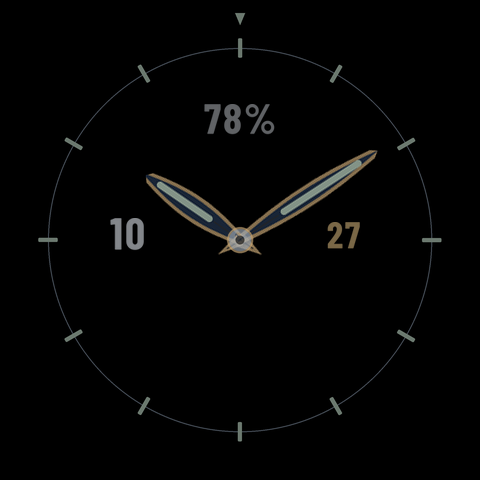
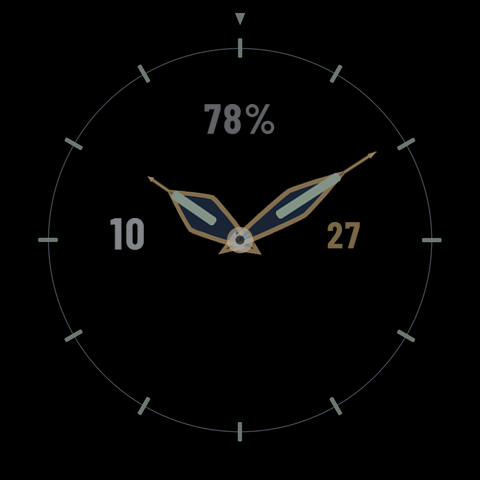
meridian-pro v7 preview: light centre disc, bolder propellers, champagne numerals redrawn post-Kontext; no-case prompt constraint

Changed region(s): [[0.3125, 0.3125, 0.7812, 0.5312]]

diff --git a/tools/meridian_pro/plate.py b/tools/meridian_pro/plate.py
@@ -146,7 +146,7 @@ def bezel(img):
         r0 = (BEZEL["tick_major_inner_r"] if major
               else BEZEL["tick_inner_r"]) * SS
         d.line([_at(cx, cy, r0, deg), _at(cx, cy, r1, deg)],
-               fill=(*P["gold"], 235) if major else (*P["ink"], 120),
+               fill=(184, 156, 114, 150) if major else (*P["ink"], 90),
                width=(2 if major else 1) * SS)
 
     # numerals 05..55 plus the gold 12 at the top (gap item 2)
@@ -157,9 +157,10 @@ def bezel(img):
         w = int(f.getlength(txt)) + pad * 2
         h = BEZEL["numeral_px"] * SS + pad * 2
         tile = Image.new("RGBA", (w, h), (0, 0, 0, 0))
+        # muted like the concept: soft desaturated gold, gentler engrave
         engrave(tile, (w / 2, h / 2), txt, f,
-                (*P["gold_hi"], 255) if txt == "12" else (*P["gold"], 255),
-                depth=1.2)
+                (206, 176, 128, 235) if txt == "12" else (184, 156, 114, 215),
+                depth=0.7)
         show = deg + (180 if 90 < deg < 270 else 0)
         rotated_paste(img, tile, _at(cx, cy, BEZEL["numeral_r"] * SS, deg),
                       show)
@@ -379,6 +380,21 @@ def centre_plate(img):
         [cx - hub_r * SS, cy - hub_r * SS, cx + hub_r * SS, cy + hub_r * SS],
         outline=(0, 0, 0, 100), width=SS))
 
+    # the light polished centre disc and ring the concept has
+    cr = 44 * SS
+    d.ellipse([cx - cr - 8 * SS, cy - cr - 8 * SS,
+               cx + cr + 8 * SS, cy + cr + 8 * SS],
+              outline=(*P["steel_hi"], 220), width=int(2.2 * SS))
+    d.ellipse([cx - cr, cy - cr, cx + cr, cy + cr],
+              fill=(206, 214, 224, 255))
+    shade(img, lambda dd: (
+        dd.ellipse([cx - cr, cy - cr, cx + cr, cy + cr],
+                   outline=(0, 0, 0, 90), width=SS),
+        dd.pieslice([cx - cr, cy - cr, cx + cr, cy + cr], 200, 340,
+                    fill=(255, 255, 255, 40)),
+        dd.pieslice([cx - cr, cy - cr, cx + cr, cy + cr], 20, 160,
+                    fill=(0, 0, 0, 30))))
+
     # rivets along both levels (item 6)
     for shapes, inset in ((PLATE["shapes"], PLATE["rivet_inset"]),
                           (PLATE["bridge"], PLATE["rivet_inset"] - 1)):
@@ -554,6 +570,7 @@ def dress_base(kontext_png, out_png):
     dim = (168, 178, 190, 255)
     d = ImageDraw.Draw(up)
 
+    bezel_numerals_over(up)
     engrave(up, (POWER["label_c"][0] * SS, POWER["label_c"][1] * SS),
             "B A T T E R Y", f_tiny, dim, depth=0.8)
 
@@ -606,6 +623,29 @@ def dress_base(kontext_png, out_png):
     up.resize((CANVAS, CANVAS), Image.LANCZOS).save(out_png, optimize=True)
 
 
+def bezel_numerals_over(up):
+    """Redraw the minute numerals over the generated base in the concept's
+    light champagne. Kontext kept re-brightening whatever the layout held;
+    drawing them post-generation makes the colour a constant."""
+    cx, cy = CX * SS, CY * SS
+    f = font(BEZEL["numeral_px"])
+    marks = [(m * 6, f"{m:02d}") for m in range(5, 60, 5)] + [(0, "12")]
+    for deg, txt in marks:
+        pad = 6 * SS
+        w = int(f.getlength(txt)) + pad * 2
+        h = BEZEL["numeral_px"] * SS + pad * 2
+        tile = Image.new("RGBA", (w, h), (0, 0, 0, 0))
+        td = ImageDraw.Draw(tile)
+        td.text((w / 2, h / 2 + SS), txt, font=f, fill=(0, 0, 0, 120),
+                anchor="mm")
+        td.text((w / 2, h / 2), txt, font=f,
+                fill=(228, 210, 172, 235) if txt == "12"
+                else (216, 198, 162, 220), anchor="mm")
+        show = deg + (180 if 90 < deg < 270 else 0)
+        rotated_paste(up, tile, _at(cx, cy, BEZEL["numeral_r"] * SS, deg),
+                      show)
+
+
 def bg_aod(base_png, out_png):
     """AOD base v2: SPARSE, not dimmed. A full-art dial at 18% still lights
     virtually every pixel, which fails the on-pixel-ratio burn-in gate a
@@ -653,7 +693,13 @@ def hands(out_dir):
         W = max_w * SS
         import math as _m
         def profile(tt):          # width along the blade
-            return W * (_m.sin(_m.pi * (0.18 + 0.82 * tt) * 0.86) ** 1.2)
+            # broad through the middle, tapering to a POINT at 0.86L —
+            # the concept's blade — with a thin gold needle beyond it
+            if tt < 0.45:
+                return W * (0.35 + 0.65 * (tt / 0.45) ** 0.8)
+            if tt < 0.86:
+                return W * (1.0 - 0.98 * ((tt - 0.45) / 0.41) ** 1.15)
+            return W * 0.02
         n = 26
         left, right = [], []
         for i in range(n + 1):
@@ -674,24 +720,29 @@ def hands(out_dir):
         for i in range(n + 1):
             tt = i / n
             y = cy - L * tt
-            w2 = max(0.5, profile(tt) / 2 - 3.6 * SS)
+            w2 = max(0.5, profile(tt) / 2 - 4.8 * SS)
             inner.append((cx - w2, y))
         for i in range(n, -1, -1):
             tt = i / n
             y = cy - L * tt
-            w2 = max(0.5, profile(tt) / 2 - 3.6 * SS)
+            w2 = max(0.5, profile(tt) / 2 - 4.8 * SS)
             inner.append((cx + w2, y))
         d.polygon(inner, fill=(38, 56, 82, 255))
+        # the gold needle tip beyond the blade point
+        d.line([(cx, cy - L * 0.84), (cx, cy - L * 1.06)],
+               fill=(*P["gold"], 255), width=int(3 * SS))
+        d.polygon([(cx, cy - L * 1.10), (cx - 2.5 * SS, cy - L * 1.04),
+                   (cx + 2.5 * SS, cy - L * 1.04)], fill=(*P["gold_hi"], 255))
         # wide lume spine
-        d.rounded_rectangle([cx - 3.2 * SS, cy - L * 0.88, cx + 3.2 * SS,
+        d.rounded_rectangle([cx - 4.4 * SS, cy - L * 0.80, cx + 4.4 * SS,
                              cy - L * 0.30], radius=3 * SS,
                             fill=(*P["lume"], 255))
         d.line([(cx, cy - L * 0.28), (cx, cy + cb * 0.6)],
                fill=(255, 255, 255, 55), width=SS)
         return img
 
-    h = propeller(114, 26)
-    m = propeller(164, 21)
+    h = propeller(102, 44)
+    m = propeller(148, 34)
     s_img = Image.new("RGBA", (S, S), (0, 0, 0, 0))
     d = ImageDraw.Draw(s_img)
     L = 182 * SS

diff --git a/tools/meridian_pro/kontext_pass.py b/tools/meridian_pro/kontext_pass.py
@@ -39,7 +39,9 @@ MUTED = __import__("os").environ.get("MP_VARIANT", "muted") != "bold"
 
 PROMPT = (
     "Turn this watch dial design into an ultra photorealistic macro "
-    "photograph of a real luxury military aviator wristwatch dial. Keep "
+    "photograph of a real luxury military aviator wristwatch dial that "
+    "FILLS THE ENTIRE FRAME edge to edge - no watch case, no strap, no "
+    "table, no background. Keep "
     "every element in exactly the same position, size and arrangement - do "
     "not move, add or remove anything, and do not add any text. The outer "
     "bezel is bright steel-blue anodized aluminium with engraved gold minute "
